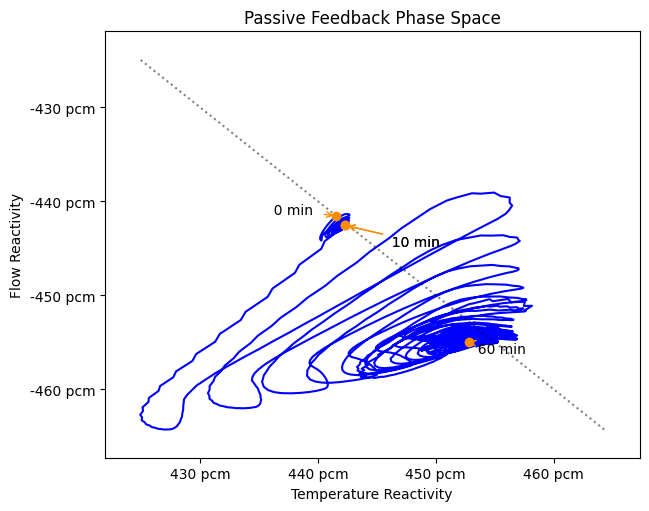
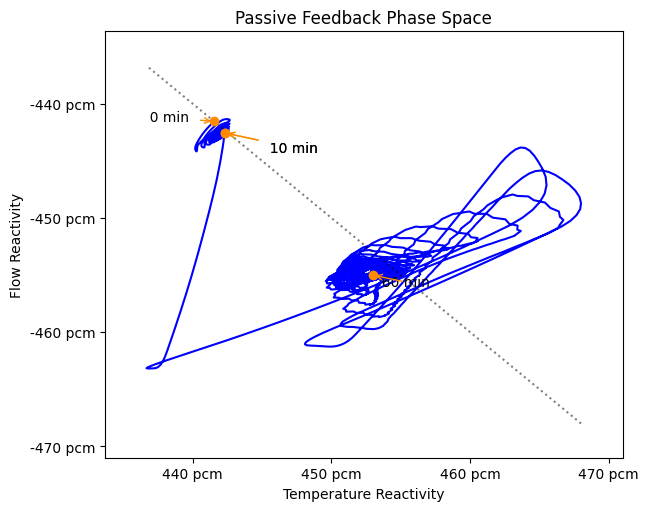
ZieglerNichols setup

diff --git a/simulation.py b/simulation.py
@@ -39,7 +39,7 @@ Q0 is calculated above, Q1 is the power after the first power change, Q2 is the 
 Q1,Q2 = 10000,8000
 #Q1,Q2 = Q0,Q0
 
-t0,t01,t1,t12,t2 = 600,300,3000,300,3000
+t0,t01,t1,t12,t2 = 600,0,3000,0,0
 times = (0,t0,t01,t1,t12,t2)
 tlen= t0+t01+t1+t12+t2
 
@@ -56,7 +56,6 @@ print(pf_tau)
 Qcore_SP = list(controller.prefilter(Qhex_t,t,pf_tau))
 plots.t_vs_Q(t,Qhex_t,Qcore_SP)
 
-exit()
 #FEM
 '''
 With the problem defined, the 1D+time finite element model is set-up. Time arrays are initialized for the core power, flow velocity, and temperature profile, as well as reactivity. The flow reactivity is calculated, while the temperature reactivity is set to the inverse, on the assumption that the reactor is initially critical. The control drums will start at the bias point, so their reactivity is null. Then the period and reactivity rate of change are set to zero, again on the steady state critical assumption.
@@ -89,7 +88,7 @@ for step in tqdm(t[1:]):
     Freac_t.append(functions.FlowRxty(T_x))
     Treac_t.append(Treac_t[-1] + functions.TempRxtyChange(T_x_t[-2],T_x_t[-1]))
 
-    CDtheta_t.append(controller.drum(Qhex_t[step],Qcore_t[-1]))
+    CDtheta_t.append(controller.drum(Qcore_SP[step],Qcore_t[-1]))
     Creac_t.append(controller.feedback(CDtheta_t[-1]))
 
     reac_t.append(Freac_t[-1]+Treac_t[-1]+Creac_t[-1])
